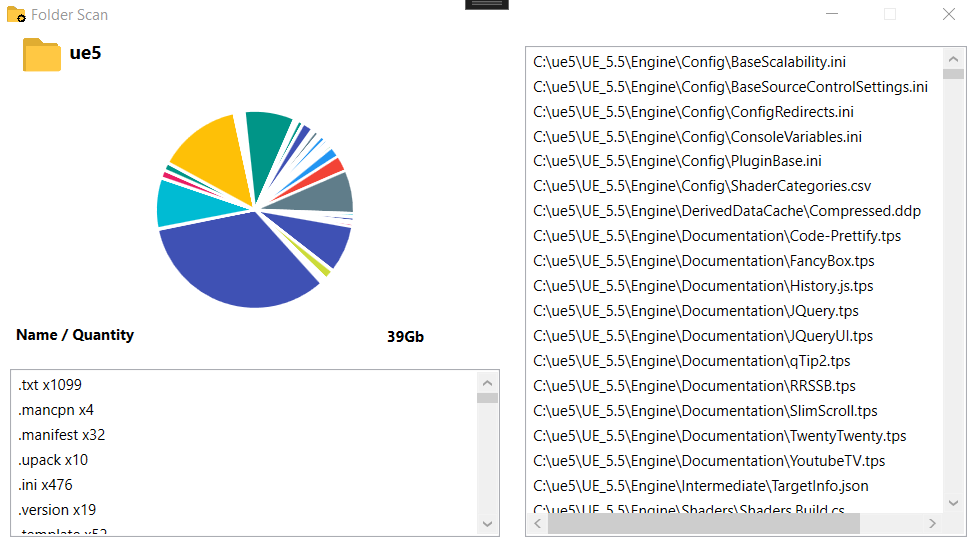
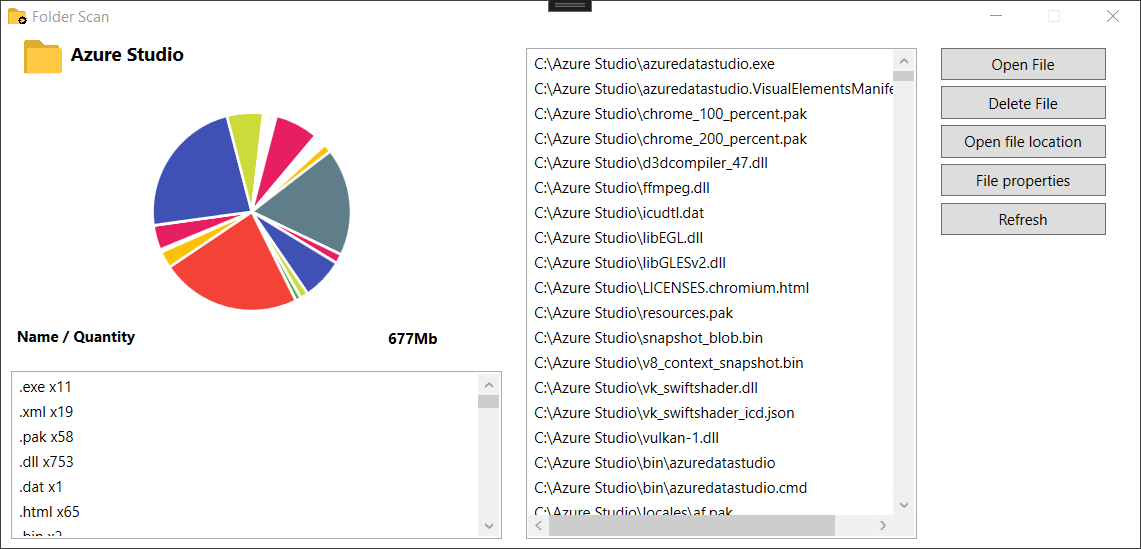
Bugfix

diff --git a/MainWindow.xaml b/MainWindow.xaml
@@ -78,6 +78,7 @@
         <Button Click ="DeleteFileClick" Content="Delete File" HorizontalAlignment="Left" Height="26" Margin="754,41,0,0" VerticalAlignment="Top" Width="132"/>
         <Button Click="OpenFileLocationClick" Content="Open file location" HorizontalAlignment="Left" Height="26" Margin="754,72,0,0" VerticalAlignment="Top" Width="132"/>
         <Button Click="OpenFilePropertiesClick" Content="File properties" HorizontalAlignment="Left" Height="26" Margin="754,103,0,0" VerticalAlignment="Top" Width="132"/>
+        <Button Click="RefreshClick" Content="Refresh" HorizontalAlignment="Left" Height="26" Margin="754,134,0,0" VerticalAlignment="Top" Width="132"/>
 
     </Grid>
 </Window>

diff --git a/MainWindow.xaml.cs b/MainWindow.xaml.cs
@@ -76,7 +76,7 @@ namespace ScanFolder
 				FolderSize = FolderSize / 1000;
 				FolderSizeLabel.Content = FolderSize + "Kb";
 			}
-			else FolderSizeLabel.Content = FolderSize + "mb";
+			else FolderSizeLabel.Content = FolderSize + "bytes";
 		}
 
 		public async void Start()
@@ -279,6 +279,12 @@ namespace ScanFolder
 				}
 				
 			}
+		}
+
+		private void RefreshClick(object sender, RoutedEventArgs e)
+		{
+			Clear();
+			Start();
 		}
 	}
 }
